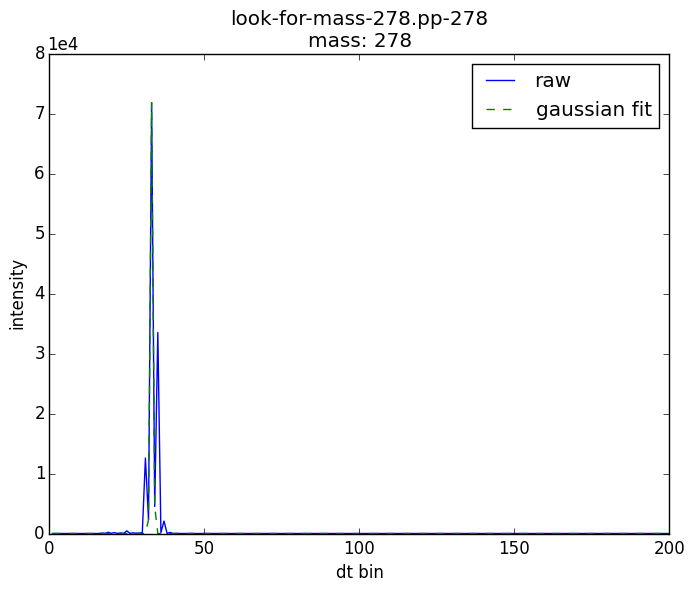
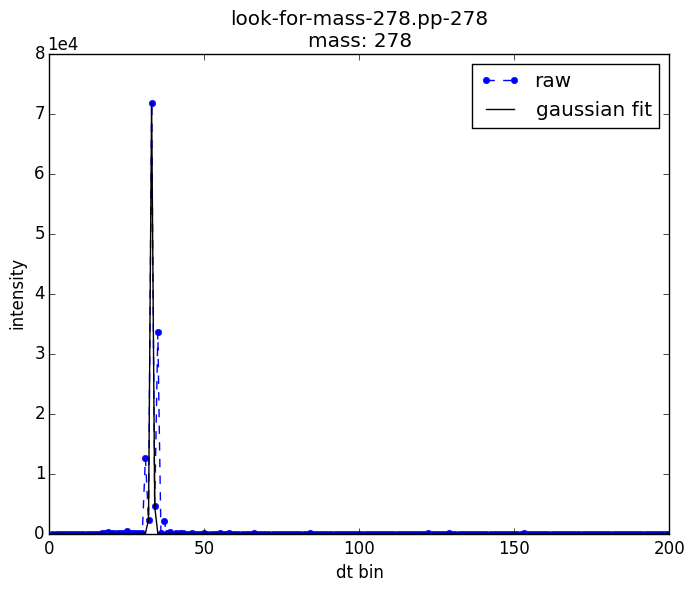
GaussFit plotting updates
changed the style of some of the GaussFit plotting

Changed region(s): [[0.0605, 0.152, 0.9683, 0.9122], [0.696, 0.1216, 0.7565, 0.152], [0.696, 0.1824, 0.7262, 0.2128]]

diff --git a/CcsCal.py b/CcsCal.py
@@ -227,8 +227,8 @@ class GaussFit (object):
 	"""		
 	def saveGaussFitFig (self, figure_file_name, get_data):
 		p = pplt
-		p.plot(self.rawandfitdata[0], self.rawandfitdata[1], 'b', label="raw")
-		p.plot(self.rawandfitdata[0], self.rawandfitdata[2],'g--', label="gaussian fit")
+		p.plot(self.rawandfitdata[0], self.rawandfitdata[1], color='blue', ls='--', marker='o', ms=5, mec='blue', mfc='blue', label="raw")
+		p.plot(self.rawandfitdata[0], self.rawandfitdata[2], color='black', ls='-', label="gaussian fit")
 		p.legend(loc="best")
 		p.ticklabel_format(style='sci', axis='y', scilimits=(0,0))
 		p.xlabel("dt bin")
